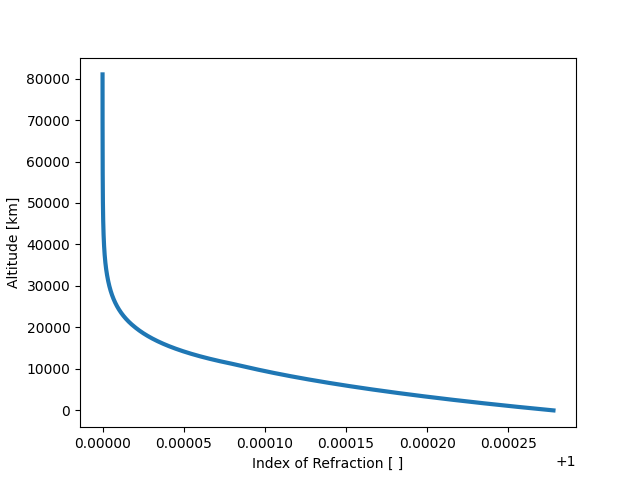
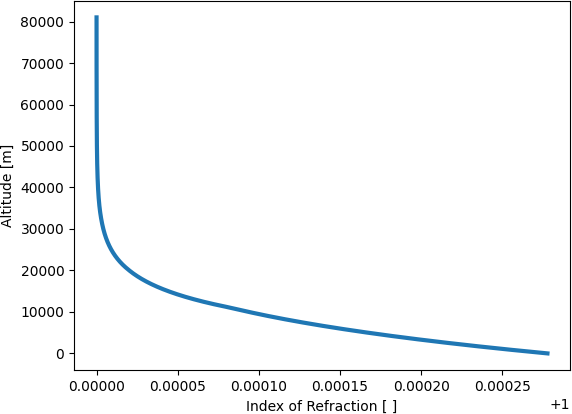
Updted optics usage

diff --git a/docs/source/user_guide/examples/optics.rst b/docs/source/user_guide/examples/optics.rst
@@ -19,7 +19,7 @@ following:
     # Lets plot the results now:
     plt.plot(blue_sky, altitude_m, linewidth=3)
     plt.xlabel('Index of Refraction [ ]')
-    plt.ylabel('Altitude [km]')
+    plt.ylabel('Altitude [m]')
 
 
 The figure below illustrates the variation in the index of refraction as a function of altitude.
